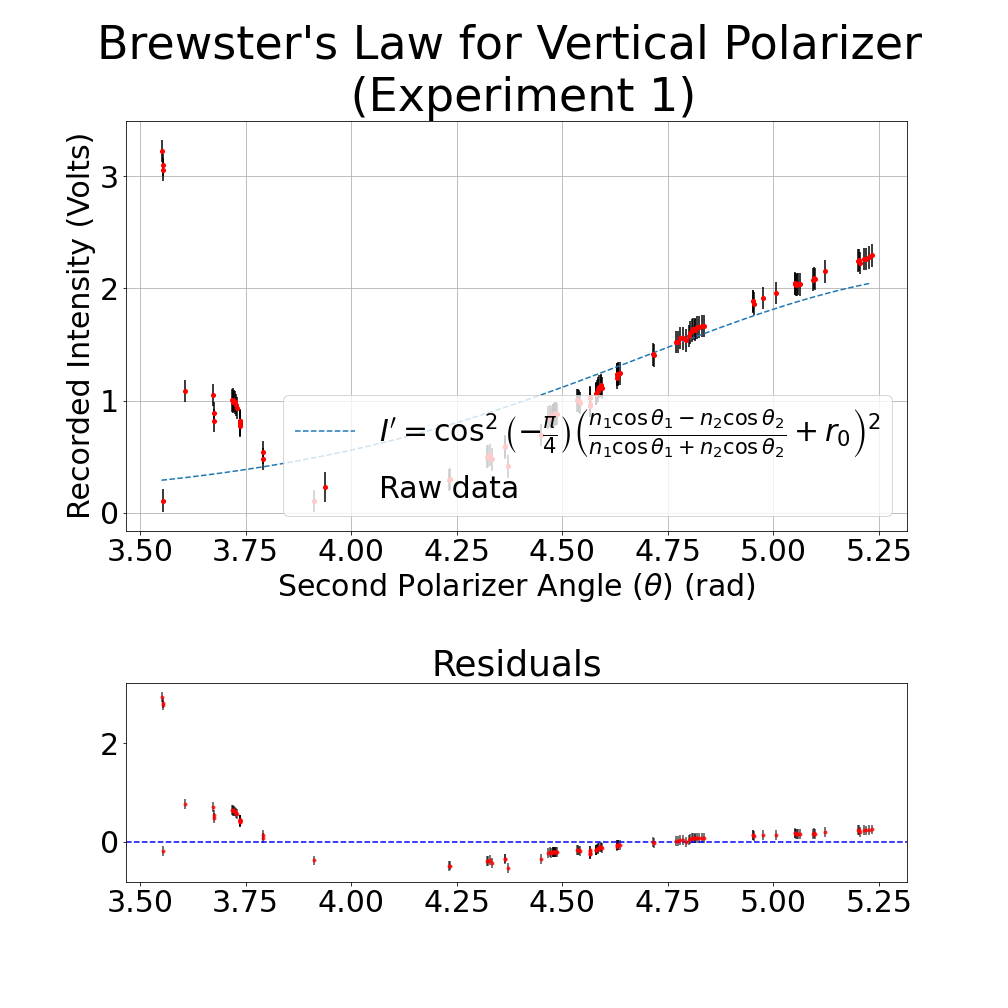
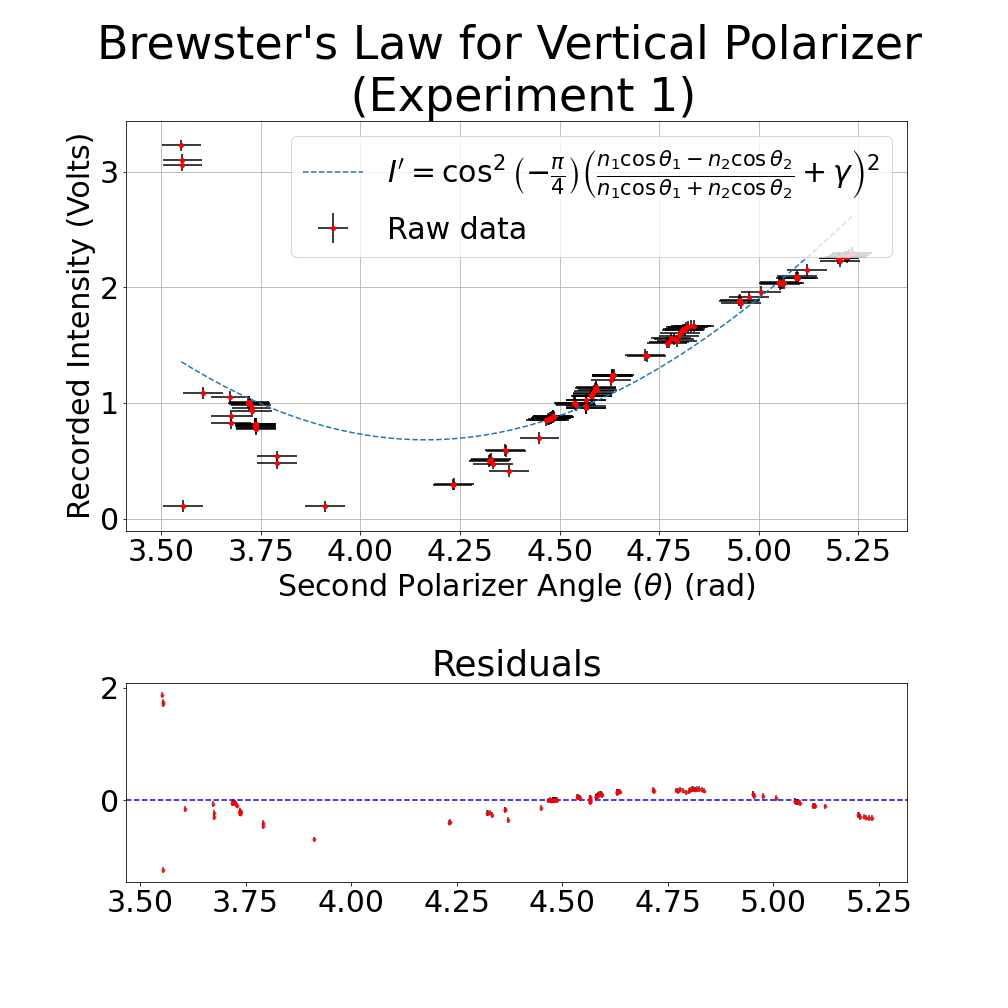
final shit

diff --git a/PolarizationLight/main.py b/PolarizationLight/main.py
@@ -15,6 +15,51 @@ import datetime as dt
 import toolkit as tk
     
 
+def rounder(data, dp=-1):
+    if dp==-1:
+        data_string = str(data)
+        i=0
+        while data_string[i]=="0" or data_string[i]!=".":
+            i=i+1
+            
+        dp = i+2
+
+    return round(data, dp), dp
+
+def deg_rad(angle):
+    return (angle/180)*(np.pi)
+    
+def rad_deg(angle):
+    return (angle/np.pi)*(180)
+
+SENSOR_UNCERTAINTY = 0.05
+POLARIZER_UNCERTAINTY_deg = 2 # degress
+POLARIZER_UNCERTAINTY_rad, _ = rounder(deg_rad(3),2)
+
+print(SENSOR_UNCERTAINTY)
+print(POLARIZER_UNCERTAINTY_rad)
+
+def rounder(data, dp=-1):
+    if dp==-1:
+        data_string = str(data)
+        i=0
+        while data_string[i]=="0" or data_string[i]!=".":
+            i=i+1
+            
+        dp = i+2
+
+    return round(data, dp), dp
+
+def latex_figure_maker(fit_eqn, params, std, symbol):
+    out = ""
+    for i in range(0, len(params)):
+        symb_v = symbol[i]
+        std_v, sf = rounder(std[i])
+        para_v, sf = rounder(params[i], sf)
+        out += f"${symb_v}={para_v}\pm{std_v}$\n"
+        
+    return out
+    
 def load_data(path, exp_num):
     df = pd.read_csv(f"{path}exp{exp_num}.txt", sep="\t", skiprows=[0,1],
                      names=['Pos(Rad)', 'Intensity(Volts)'])
@@ -49,6 +94,9 @@ def brewster(exp_num, polar_type):
     
     df['pct'] = df['Intensity(Volts)'].pct_change()
     
+    df.plot.scatter(x='Pos(Rad)', y='Intensity(Volts)', c='red', s=0.2, 
+                    grid=True, title=f"{exp_num}")
+    
     df = df[df['pct']<=0.03]
     df = df[df['pct']>=-0.03]
     df = df[df['Pos(Rad)']>=200]
@@ -63,41 +111,42 @@ def brewster(exp_num, polar_type):
     df['Pos(Rad)'] = df['Pos(Rad)'].div(180).multiply(np.pi)
     df_prelim['Pos(Rad)'] = df_prelim['Pos(Rad)'].div(180).multiply(np.pi)
     
-    #df.plot.scatter(x='Pos(Rad)', y='Intensity(Volts)', c='red', s=0.2, 
-    #                grid=True, title=f"{exp_num}")
+    df.plot.scatter(x='Pos(Rad)', y='Intensity(Volts)', c='red', s=0.2, 
+                    grid=True, title=f"{exp_num}")
     #df_prelim.plot.scatter(x='Pos(Rad)', y='Intensity(Volts)', c='red', s=0.2, 
     #                grid=True, title=f"PRELIM {exp_num}")
     #tk.quick_plot_test(xdata, ydata)
 
-    uncert = [0.1]*len(df)
-    uncert_p = [0.1]*len(df_prelim)
+    uncert = [SENSOR_UNCERTAINTY]*len(df)
+    uncert_x = [POLARIZER_UNCERTAINTY_rad]*len(df)
+    uncert_p = [SENSOR_UNCERTAINTY]*len(df_prelim)
+    uncert_p_x = [POLARIZER_UNCERTAINTY_rad]*len(df_prelim)
     
 
 # =============================================================================
-#     data_p = tk.curve_fit_data(df_prelim['Pos(Rad)'].to_numpy(), df_prelim['Intensity(Volts)'].to_numpy(), 
-#                        fit_type='custom', model_function_custom=brewster_eqn,
-#                        uncertainty=uncert_p, res=False, chi=False, guess=(1.49, 0, 1))
+#    data_p = tk.curve_fit_data(df_prelim['Pos(Rad)'].to_numpy(), df_prelim['Intensity(Volts)'].to_numpy(), 
+#                       fit_type='custom', model_function_custom=brew_f,
+#                       uncertainty=uncert_p, res=False, chi=False, guess=(1.49, 1.4, 0, 20))
 # =============================================================================
-
 
 # =============================================================================
 #     data_p = tk.curve_fit_data(df_prelim['Pos(Rad)'].to_numpy(), df_prelim['Intensity(Volts)'].to_numpy(), 
 #                       fit_type='custom', model_function_custom=brewster_eqn_smp,
 #                       uncertainty=uncert_p, res=False, chi=False, guess=(4.5, 2.5))
 # =============================================================================
-    #plt.figure()
-    #plt.plot(data_p['graph-horz'], data_p['graph-vert'])
-    #plt.errorbar(df_prelim['Pos(Rad)'].to_numpy(), df_prelim['Intensity(Volts)'].to_numpy(), yerr=uncert_p, fmt='o')
-    #plt.show()
-    #prelim_g = data_p['popt']
-    prelim_g = (1.49, 0.6, 2.5)
+#    plt.figure()
+#    plt.plot(data_p['graph-horz'], data_p['graph-vert'])
+#    plt.errorbar(df_prelim['Pos(Rad)'].to_numpy(), df_prelim['Intensity(Volts)'].to_numpy(), yerr=uncert_p, fmt='o')
+#    plt.show()
+#    prelim_g = data_p['popt']
+    #prelim_g = (1.49, 0.15, 2.5)
     #prelim_g = (1.49, 2.3)
     #prelim_g = (1, 1.49, 0.4, 0.6)
     #prelim_g = (1.49, 0.17)
     
     data = tk.curve_fit_data(df['Pos(Rad)'].to_numpy(), df['Intensity(Volts)'].to_numpy(), 
                        fit_type='custom', model_function_custom=brewster_eqn,
-                       uncertainty=uncert, res=True, chi=True, guess=prelim_g)
+                       uncertainty=uncert, uncertainty_x=uncert_x, res=True, chi=True, guess=(1.49, 0.15, 2.5))
 
     
 # =============================================================================
@@ -113,24 +162,29 @@ def brewster(exp_num, polar_type):
             'fit-label': eqn,
             'data-label': "Raw data",
             'save-name' : f'brew_{polar_type}_{exp_num}',
-            'loc' : 'lower right'}
+            'loc' : 'upper right'}
     
     tk.quick_plot_residuals(df['Pos(Rad)'], df['Intensity(Volts)'], 
                            data['graph-horz'], data['graph-vert'],
-                           data['residuals'], meta=meta, uncertainty=uncert, save=False)
+                           data['residuals'], meta=meta, uncertainty=uncert, uncertainty_x=uncert_x,
+                           save=False)
     #x = np.linspace(3.5, 6, 100)
     #plt.plot(x, brewster_eqn(x, 1.49, 0.3, 2))
     
+    #data['pstd'][2] = 0
+    #data['popt'][2] = 0
+    n2 = ufloat(data['popt'][0], data['pstd'][0])
+    #gamma = ufloat(data['popt'][2], data['pstd'][2])
+    #N2 = refractive_index(n2, gamma)
+    
     tk.block_print([f"CHI : {data['chi-sq']}", 
                     f"PARAMS : {data['popt']}", 
-                    f"STD : {data['pstd']}"], 
+                    f"STD : {data['pstd']}"],
+                    #f"N2 : {N2}",
+                    #latex_figure_maker("a", data['popt'], data['pstd'], ["n_2", "\phi", "\gamma"])], 
                    meta['title'], '=')
     
-def deg_rad(angle):
-    return (angle/180)*(np.pi)
-    
-def rad_deg(angle):
-    return (angle/np.pi)*(180)
+    return ufloat(data['popt'][0], data['pstd'][0])
 
 def malus2(exp_num):
     df = load_data("data/Malus/mtwo", exp_num)
@@ -138,15 +192,17 @@ def malus2(exp_num):
     df.plot.scatter(x='Pos(Rad)', y='Intensity(Volts)', c='red', s=0.2, 
                     grid=True, title=f"{exp_num}")
     
-    uncert = [0.1]*len(df)
+    uncert = [SENSOR_UNCERTAINTY]*len(df)
+    uncert_x = [POLARIZER_UNCERTAINTY_rad]*len(df)
     
     
     
     data = tk.curve_fit_data(df['Pos(Rad)'], df['Intensity(Volts)'], 
                       fit_type='custom', model_function_custom=malus2_eqn,
-                      uncertainty=uncert, res=True, chi=True)
+                      uncertainty=uncert, uncertainty_x=uncert_x,
+                      res=True, chi=True)
     
-    meta = {'title' : f"Malus' Law for Two Polarizers (Experiment {exp_num})",
+    meta = {'title' : f"Malus' Law for Two Polarizers\n(Experiment {exp_num})",
             'xlabel' : r'Second Polarizer Angle ($\theta$) (rad)',
             'ylabel' : 'Recorded Intensity (Volts)',
             'chi_sq' : data['chi-sq'],
@@ -157,7 +213,9 @@ def malus2(exp_num):
     
     tk.quick_plot_residuals(df['Pos(Rad)'], df['Intensity(Volts)'], 
                            data['graph-horz'], data['graph-vert'],
-                           data['residuals'], meta=meta, uncertainty=uncert, save=False)
+                           data['residuals'], meta=meta, uncertainty=uncert, 
+                           uncertainty_x=uncert_x,
+                           save=False)
     
     tk.block_print([f"CHI : {data['chi-sq']}", 
                     f"PARAMS : {data['popt']}", 
@@ -170,29 +228,54 @@ def malus3(exp_num):
     df.plot.scatter(x='Pos(Rad)', y='Intensity(Volts)', c='red', s=0.2, 
                     grid=True, title=f"{exp_num}")
     
-    uncert = [0.1]*len(df)
+    uncert = [SENSOR_UNCERTAINTY]*len(df)
+    uncert_x = [POLARIZER_UNCERTAINTY_rad]*len(df)
     
     data = tk.curve_fit_data(df['Pos(Rad)'], df['Intensity(Volts)'], 
                       fit_type='custom', model_function_custom=malus3_eqn,
-                      uncertainty=uncert, res=True, chi=True)
+                      uncertainty=uncert, uncertainty_x=uncert_x,
+                      res=True, chi=True)
     
-    meta = {'title' : f"Malus' Law for Three Polarizers (Experiment {exp_num})",
+    meta = {'title' : f"Malus' Law for Three Polarizers\n(Experiment {exp_num})",
             'xlabel' : r'Second Polarizer Angle ($\theta$) (rad)',
             'ylabel' : 'Recorded Intensity (Volts)',
             'chi_sq' : data['chi-sq'],
             'fit-label': r"$I' = \frac{1}{4}I_0 \sin^2 (2(\theta + \phi))$",
             'data-label': "Raw data",
-            'save-name' : f'm2_{exp_num}',
+            'save-name' : f'm3_{exp_num}',
             'loc' : 'lower right'}
     
     tk.quick_plot_residuals(df['Pos(Rad)'], df['Intensity(Volts)'], 
                            data['graph-horz'], data['graph-vert'],
-                           data['residuals'], meta=meta, uncertainty=uncert, save=False)
+                           data['residuals'], meta=meta, uncertainty=uncert, 
+                           uncertainty_x=uncert_x,
+                           save=False)
+    
+    MAX1 = [x for x in data['graph-vert']]
+    MAX2 = [x for x in data['graph-vert'] if (x>1.5)]
+    MIN = MAX2 = [x for x in data['graph-vert'] if (x>1)]
+    MAX1 = 0
+    MAX2 = 0
+    MIN = 9000
+    for i in range(len(data['graph-vert'])):
+        if data['graph-horz'][i] < 1.5 and data['graph-vert'][i]>MAX1:
+            MAX1 = data['graph-horz'][i]
+            
+        elif data['graph-horz'][i] > 1.5 and data['graph-vert'][i]>MAX2:
+            MAX2 = data['graph-horz'][i]
+            
+        if data['graph-horz'][i] > 1 and (data['graph-horz'][i] < 2 ) and data['graph-vert'][i]<MIN:
+            MIN = data['graph-horz'][i]
     
     tk.block_print([f"CHI : {data['chi-sq']}", 
                     f"PARAMS : {data['popt']}", 
-                    f"STD : {data['pstd']}"], 
+                    f"STD : {data['pstd']}",
+                    f"MAX 1 : {MAX1}",
+                    f"MAX 2 : {MAX2}",
+                    f"MIN : {MIN}"], 
                    meta['title'], '=')
+    
+    return MAX1, MAX2, MIN
 
 def malus2_eqn(angle, I0, offset):
     return I0*((np.cos(angle+offset))**2)
@@ -206,10 +289,8 @@ def malus2_eqn_imp(I0, angle, r1, r2, r3):
     
     return I5
 
-
 def malus3_eqn(angle, I0, offset):
     return (1/4)*(I0)*((np.sin(2*(angle + offset)))**2)
-
 
 def brewster_eqn_h(theta1, n2, offset, y0):
     polar = np.pi/4
@@ -226,6 +307,24 @@ def brewster_eqn_h(theta1, n2, offset, y0):
     R_perp = coeff*r_perp
     
     return R_perp
+
+def model_V(theta,a,b):
+    n=1
+    return a*(theta+b)**(2*n)
+
+def model_H(theta,a,b):
+    n=1
+    return a*(theta+b)**(2*n)
+
+def brew_f(theta1, n2, phi, y, scale):
+    n1 = 1
+    theta1 = theta1 + phi
+    theta2 = np.arcsin((n1/n2)*np.sin(theta1))
+    r_perp = (n1*np.cos(theta1) - n2*np.cos(theta2))/(n1*np.cos(theta1) + n2*np.cos(theta2))
+    R_perp = r_perp**2
+    I = scale*R_perp 
+    
+    return I + y
 
 def brewster_eqn_v(theta1, n2, offset, y0):
     polar = np.pi/4
@@ -270,8 +369,6 @@ def brewster_eqn_smp(theta1, offset, y0):
     
     return (coeff*r_perp + y0)**2
 
-
-
 def brewster_eqn_rework(theta1, n2, phi, gamma):
     I0 = (np.cos(np.pi/4))**2
     n1 = 1
@@ -297,7 +394,6 @@ def brewster_eqn_smn(theta1, n2, phi):
     
     return I_perp
 
-
 def brewster_eqn_qmark(theta1, n1, n2, phi, gamma):
     #I0 = (np.cos(np.pi/4))**2
     theta1 = theta1 + phi
@@ -312,11 +408,31 @@ def brewster_eqn_qmark(theta1, n1, n2, phi, gamma):
     
     return I_perp
 
+def brewster_eqn_final(theta1, n2, phi):
+    n1 = 1
+    theta1 = theta1 + phi
+    theta2 = np.arcsin(np.sin(theta1)*(n1/n2))
+    r_perp = (n1*np.cos(theta1) - n2*np.cos(theta2))/(n1*np.cos(theta1) + n2*np.cos(theta2))
+    r_prll = (n1*np.cos(theta1) - n2*np.cos(theta2))/(n1*np.cos(theta1) + n2*np.cos(theta2))
+
+    R_perp = r_perp**2
+    R_prll = r_prll**2
+    
+    return R_perp/R_prll
+
+def refractive_index(n2, gamma):
+    return n2*(gamma-1)
+
 if __name__ == '__main__':
     #brewster_best = [1, 3, 6, 8, 9]
     brewster_best = [1, 3, 6, 8, 9]
+    
+    n2 = []
+    
     for i in brewster_best:
-        brewster(i, 'H')
+        n2.append(brewster(i, 'H'))
+        
+    print(f"AVERAGE N2 = {sum(n2)/5}")
     
     #for i in range(1,4):
     #    brewster(i, 'N')
@@ -324,13 +440,22 @@ if __name__ == '__main__':
     
     #brewster(6, 'H')
 
-        
+    #MAX1 = []
+    #MAX2 = []   
+    #MIN = []
+
     #for i in range(1,4):
     #    malus2(i)
         
     #for i in range(1,4):
-    #    malus3(i)
+    #    max1, max2, min1  =  malus3(i)
+    #    MAX1.append(ufloat(max1, POLARIZER_UNCERTAINTY_rad))
+    #    MAX2.append(ufloat(max2, POLARIZER_UNCERTAINTY_rad))
+    #    MIN.append(ufloat(min1, POLARIZER_UNCERTAINTY_rad))
 
+    #print(sum(MAX1)/len(MAX1))
+    #print(sum(MAX2)/len(MAX2))
+    #print(sum(MIN)/len(MIN))
         
 
     

diff --git a/PolarizationLight/toolkit.py b/PolarizationLight/toolkit.py
@@ -278,11 +278,17 @@ def quick_plot_residuals(xdata, ydata, plot_x, plot_y,
     #popt, pcov, new_xdata, new_ydata, chi_sq, residuals = curve_fit_data(
     #    angle_data, period_data, fit_type='log', 
     #    uncertainty=period_uncert, res=True, chi=True)                
-
+    
     main_fig.set_title(meta['title'], fontsize = 46)
-    main_fig.errorbar(xdata, ydata, yerr=uncertainty, #xerr=uncertainty_x,
-                      markersize='4', fmt='o', color='red', 
-                      label=meta['data-label'], ecolor='black')
+    if len(uncertainty_x)==0:
+        main_fig.errorbar(xdata, ydata, yerr=uncertainty, #xerr=uncertainty_x,
+                          markersize='4', fmt='o', color='red', 
+                          label=meta['data-label'], ecolor='black')
+    else:
+        main_fig.errorbar(xdata, ydata, yerr=uncertainty, xerr=uncertainty_x,
+                          markersize='4', fmt='o', color='red', 
+                          label=meta['data-label'], ecolor='black')
+    
     main_fig.plot(plot_x, plot_y, linestyle='dashed',
                   label=meta['fit-label'])  #$\chi_{red}^2$=%1.2f'%meta['chi_sq'])
 
